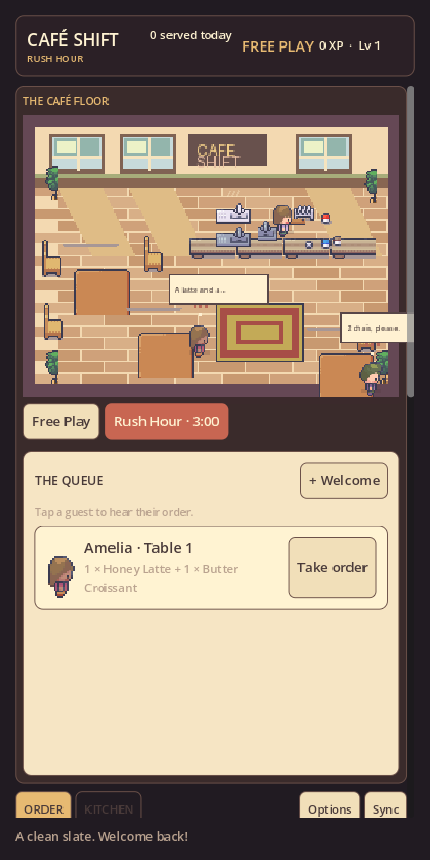
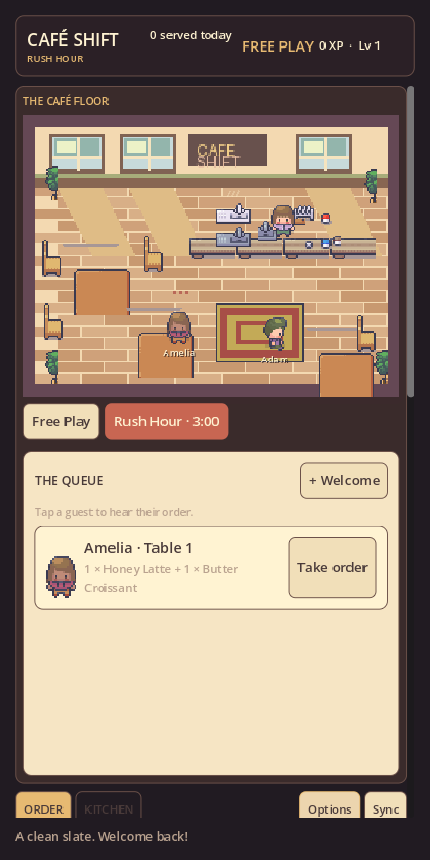
Land the café-floor fidelity pass and refresh the live proofs

diff --git a/docs/AUTONOMOUS_REBUILD_PROGRESS.md b/docs/AUTONOMOUS_REBUILD_PROGRESS.md
@@ -2,7 +2,7 @@
 
 ## Current phase
 
-Phase 0 complete. Phase 1 vertical slice is complete and verified, the game-feel pass (kitchen tab badge, ticket transition flashes, pour-meter zone glow) has landed, the display foundation scales the whole UI to any window size without letterboxing (`canvas_items` + `expand`), and the café-floor/balance pass is in: served guests leave with fading pixel hearts, and every served order tightens the rush-hour arrival cadence (12s → 8s). The backend/KitchenSync reliability sweep is complete: a new 37-check end-to-end sync suite drives the real local server through failure and recovery, the two client defects it exposed are fixed, and the two-process live proof was refreshed through the production deployment. The web export is assembled locally and smoke-tested in a real browser, and the portrait/phone reflow has landed: narrow windows now get a dedicated stacked arrangement on a 430×900 logical base (window-resize aware) instead of the desk scaled down to their width, and the one overflow the browser verification exposed — a single-line status label forcing a 486px minimum width against the 430px viewport — was root-caused with local probes and fixed. The AI-template-feel sweep has since run as well: the public surface (copy, links, README claims) came back clean, and the one flagged item — the game had no app icon, so the window icon and web favicon were the default Godot robot — is fixed with a new original code-authored pixel-art icon wired into the project. On the user's explicit go-ahead the refreshed export is now deployed to production and re-verified live: hosted assets byte-identical to the local export, health ready, the two-process sync proof passed, and a Chromium boot check at desktop and phone sizes reported zero errors.
+Phase 0 complete. Phase 1 vertical slice is complete and verified, the game-feel pass (kitchen tab badge, ticket transition flashes, pour-meter zone glow) has landed, the display foundation scales the whole UI to any window size without letterboxing (`canvas_items` + `expand`), and the café-floor/balance pass is in: served guests leave with fading pixel hearts, and every served order tightens the rush-hour arrival cadence (12s → 8s). The backend/KitchenSync reliability sweep is complete: a new 37-check end-to-end sync suite drives the real local server through failure and recovery, the two client defects it exposed are fixed, and the two-process live proof was refreshed through the production deployment. The web export is assembled locally and smoke-tested in a real browser, and the portrait/phone reflow has landed: narrow windows now get a dedicated stacked arrangement on a 430×900 logical base (window-resize aware) instead of the desk scaled down to their width, and the one overflow the browser verification exposed — a single-line status label forcing a 486px minimum width against the 430px viewport — was root-caused with local probes and fixed. The AI-template-feel sweep has since run as well: the public surface (copy, links, README claims) came back clean, and the one flagged item — the game had no app icon, so the window icon and web favicon were the default Godot robot — is fixed with a new original code-authored pixel-art icon wired into the project. On the user's explicit go-ahead the refreshed export is now deployed to production and re-verified live: hosted assets byte-identical to the local export, health ready, the two-process sync proof passed, and a Chromium boot check at desktop and phone sizes reported zero errors. The café-floor fidelity pass then closed out the floor animation work: guests walk in and out through the door with run animation and directional facing, parked guests turn to face the counter, name tags and the selected guest's order bubble stay crisp at any zoom, and the one defect the visual investigation surfaced — status icons drawn over a departing guest — is fixed. That refreshed build is deployed and re-verified live, and the v1.1.0 release bundle carries the same build.
 
 ## Baseline evidence
 
@@ -65,6 +65,9 @@ Phase 0 complete. Phase 1 vertical slice is complete and verified, the game-feel
 - `_label()` defaults to `AUTOWRAP_OFF` and every long-text label opts into `AUTOWRAP_WORD_SMART` individually; `_status` was the single long line that never did, which is how its 454px minimum silently propagated to the whole phone layout. Any new long label must opt in, or one line of text clips the entire right edge on narrow screens.
 - The hosted Vercel export trailed the local build until 2026-10-17, when it was redeployed on the user's explicit go-ahead; the live proofs (`docs/live-export-proof.json`, `docs/sync-proof.json`) and a browser boot check were refreshed against the new deployment the same day.
 - The hosted favicon and window icon were the default Godot robot because the project never set `config/icon`; the fix is code-authored, not sourced: `tools/make_app_icon.py` composes the cup-through-heart icon and `assets/original/icon.png` is committed like the other original assets. A 16px downscale check (`work/icon-preview-16.png`) confirms the cup silhouette survives favicon size.
+- The 24-frame character sheets are single-row strips (384×32): 6 frames each for right, up, left, down (front), in that order — direction bands are frame ranges on the X axis, not rows. The queue portraits and every parked guest use the front-facing band. `cafe_view.gd` selects the band via `DIR_ROWS` offsets 0/6/12/18 and plays idle or run speeds off the same sheet.
+- Guest names are deterministic: `shift_rules.gd` pairs each request id with `NAMES[sequence % RECIPES.size()]` (R1 Amelia … R6 Ash), so a guest can never show another guest's name. A capture that looked like an "extra" guest was decoded as mid-transition walking during the Free Play auto-refill and the Rush restart — real layout states, not a bug.
+- Walked-out actors now take a dedicated `LEAVING` state: it suppresses status icons (previously the waiting dots floated over a departing guest) and keeps the patience branch from drawing on someone already outside. `tests/test_ui.gd` additionally waits for every actor's `moving` flag to clear before the rush-hour capture, so the screenshot shows the settled rush layout with guests parked front-facing.
 
 ## Completed work
 
@@ -86,6 +89,9 @@ Phase 0 complete. Phase 1 vertical slice is complete and verified, the game-feel
 - Ran the AI-template-feel sweep and fixed the one item it flagged: authored `tools/make_app_icon.py`, generated and wired `assets/original/icon.png` (`config/icon`), re-exported the web build and re-verified it in Chromium.
 - Shipped the refreshed export to production on the user's explicit go-ahead and re-verified the live service end to end: byte-identical hosted assets (`docs/live-export-proof.json`), health ready, the two-process sync proof passed again (`docs/sync-proof.json`), and a Chromium boot check at 1440×900 and 390×844 with zero console, page and network errors.
 - Refreshed the public release bundle with the same verified build (repackage, re-upload, re-download hash check) and annotated the release notes with the refresh date.
+- Ran the café-floor fidelity pass: guests walk in from the door with the run animation, face their direction of travel, turn front-facing when parked at their slot, walk out through the exit, and take the dedicated `LEAVING` state; name tags and the selected guest's order bubble draw in screen space so text stays crisp at any zoom; the selected guest gets a gold frame instead of a recolored bubble; click hit-testing is shared between cursor feedback and selection; the queue portraits use the front-facing frame (`scripts/main.gd`).
+- Closed the floor-fidelity investigation with evidence, not guesses: proved the sheets are single-row direction bands and names are deterministic, decoded the "mystery guest" as a mid-transition walker, fixed the one real defect (status icons over a departing guest) and the flaky capture, then re-ran import, core (71 checks), orders and the native GUI (52 activations) green and refreshed all four floor screenshots.
+- Re-shipped the floor build on the user's standing go-ahead: re-exported the Web build, deployed to production, confirmed byte-identity of the six hosted runtime files and a zero-error Chromium boot at desktop and phone sizes, then repackaged the release bundle and re-uploaded it to v1.1.0 with a re-download hash check (`f822cd27…`) and an updated release note.
 
 ## Changed files
 
@@ -96,6 +102,8 @@ Phase 0 complete. Phase 1 vertical slice is complete and verified, the game-feel
 - `README.md` (app icon listed in the original-assets note)
 - `docs/screenshots/web-desktop.jpg`, `docs/screenshots/web-mobile.jpg` (browser smoke evidence)
 - `docs/screenshots/till-phone.png` (new phone-arrangement capture)
+- `docs/screenshots/till.png`, `kitchen.png`, `kitchen-done.png`, `rush-hour.png` (refreshed after the floor-fidelity pass)
+- `docs/live-export-proof.json` (refreshed hosted byte-identity proof)
 - `docs/sync-proof.json` (refreshed live two-process proof)
 - `project.godot` (display stretch aspect)
 - `scripts/main.gd`
@@ -108,11 +116,11 @@ Phase 0 complete. Phase 1 vertical slice is complete and verified, the game-feel
 
 ## Known regressions
 
-- The kitchen-rail desk collapse and the phone right-edge overflow were both found during verification, fixed, and re-verified (native GUI suite, phone checks, browser re-run, pixel diff). No known regressions remain at this checkpoint.
+- The kitchen-rail desk collapse and the phone right-edge overflow were both found during verification, fixed, and re-verified (native GUI suite, phone checks, browser re-run, pixel diff). The floor-fidelity pass surfaced one cosmetic defect (waiting dots over a departing guest) and one flaky capture; both were fixed (dedicated `LEAVING` state, capture settle step) and re-verified. No known regressions remain at this checkpoint.
 
 ## Next actionable task
 
-The brief's four phases and the polish backlog (game feel, balance, web export, portrait reflow, AI-template sweep) are complete, and the refreshed export is deployed and re-verified live (2026-10-17); nothing further is queued. The remaining items are explicitly gated: physical touchscreen/controller QA on real hardware, and the human's own PIXL journal notes (never fabricated).
+The brief's four phases and the polish backlog (game feel, balance, web export, portrait reflow, AI-template sweep, café-floor fidelity) are complete; the floor build is deployed, re-verified live, and carried by the v1.1.0 release bundle (2026-10-17). Nothing further is queued. The remaining items are explicitly gated: physical touchscreen/controller QA on real hardware, and the human's own PIXL journal notes (never fabricated).
 
 ## External blockers
 

diff --git a/docs/VERIFICATION.md b/docs/VERIFICATION.md
@@ -38,6 +38,14 @@ A fresh-origin run against the production deployment at [that day's Vercel build
 
 `tools/verify_live_export.py`: **PASS: all six hosted runtime files match the local export; WASM MIME is correct.** Actual sizes and hashes are in [live-export-proof.json](live-export-proof.json). The release archive contains compiled runtime files and instructions, with no raw paid asset pack.
 
+## Café-floor fidelity re-verification — 2026-10-17
+
+`tests/test_core.gd`: **PASS: 71 core checks; 0 failures**. `tests/test_orders.gd`: **PASS** (cart, totals, placement, kitchen statuses, scoring, NPC ticket). `tests/test_ui.gd`: **PASS: native GUI, 52 pointer activations; 0 failures** — the rush-hour capture now waits for every walker to settle, so `rush-hour.png` shows both guests parked front-facing at their slots with legible name tags, the selected guest gold-framed under the order bubble, and no leftover status icons.
+
+The floor animates the full visit now: guests enter from the door with the run sheet, face their direction of travel, turn front-facing while waiting, and depart with the pixel heart. Name tags and the selected guest's bubble draw in screen space so text stays crisp at any zoom; the queue portraits use the front-facing frame. A captured "extra guest" was decoded as a guest mid-transition between the Free Play auto-refill and the Rush restart, not a state bug; the one real defect the visual investigation found — waiting dots drawn over a departing guest — was fixed with a dedicated `LEAVING` state. The 24-frame character sheets are single-row strips: 6 frames each for right, up, left, down (front), in that order.
+
+The deployed build was re-verified after the pass: `tools/verify_live_export.py` — **PASS: all six hosted runtime files match the local export; WASM MIME is correct** (refreshed [live-export-proof.json](live-export-proof.json)) — and the Chromium boot check at 1440×900 and 390×844 reported zero console, page and network errors. The public release bundle was repackaged, re-uploaded and re-downloaded: the published zip hash equals the local package (`f822cd27…`).
+
 ## Honest boundaries
 
 No PIXL journal or claimed development duration was created. AI assistance is documented. Existing Hackatime endpoint remains unchanged; automated edits were not converted into synthetic human hours. Both synchronization proofs used independent clients on one computer. A physical phone, touchscreen, controller and loss-of-connectivity recovery on an actual mobile network have not been tested. Rooms expire in seven days; tokens remain in memory, so refreshing the till requires a fresh room.
